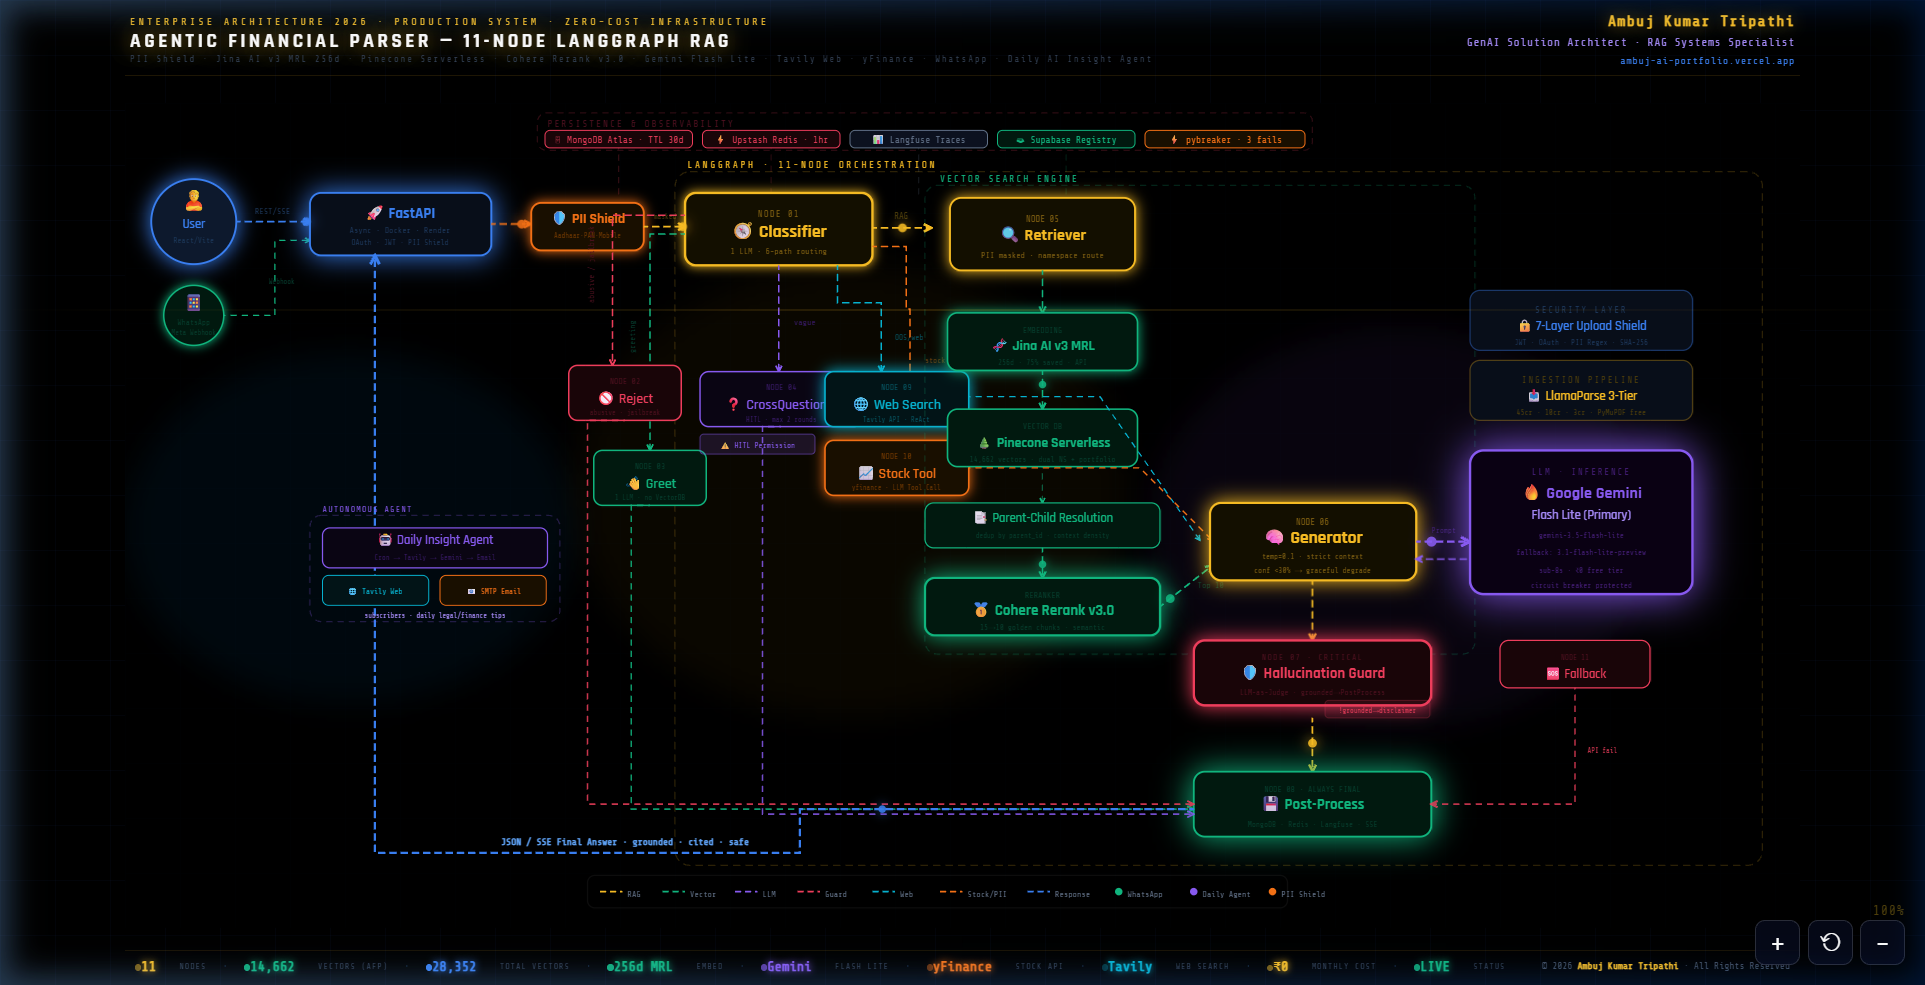
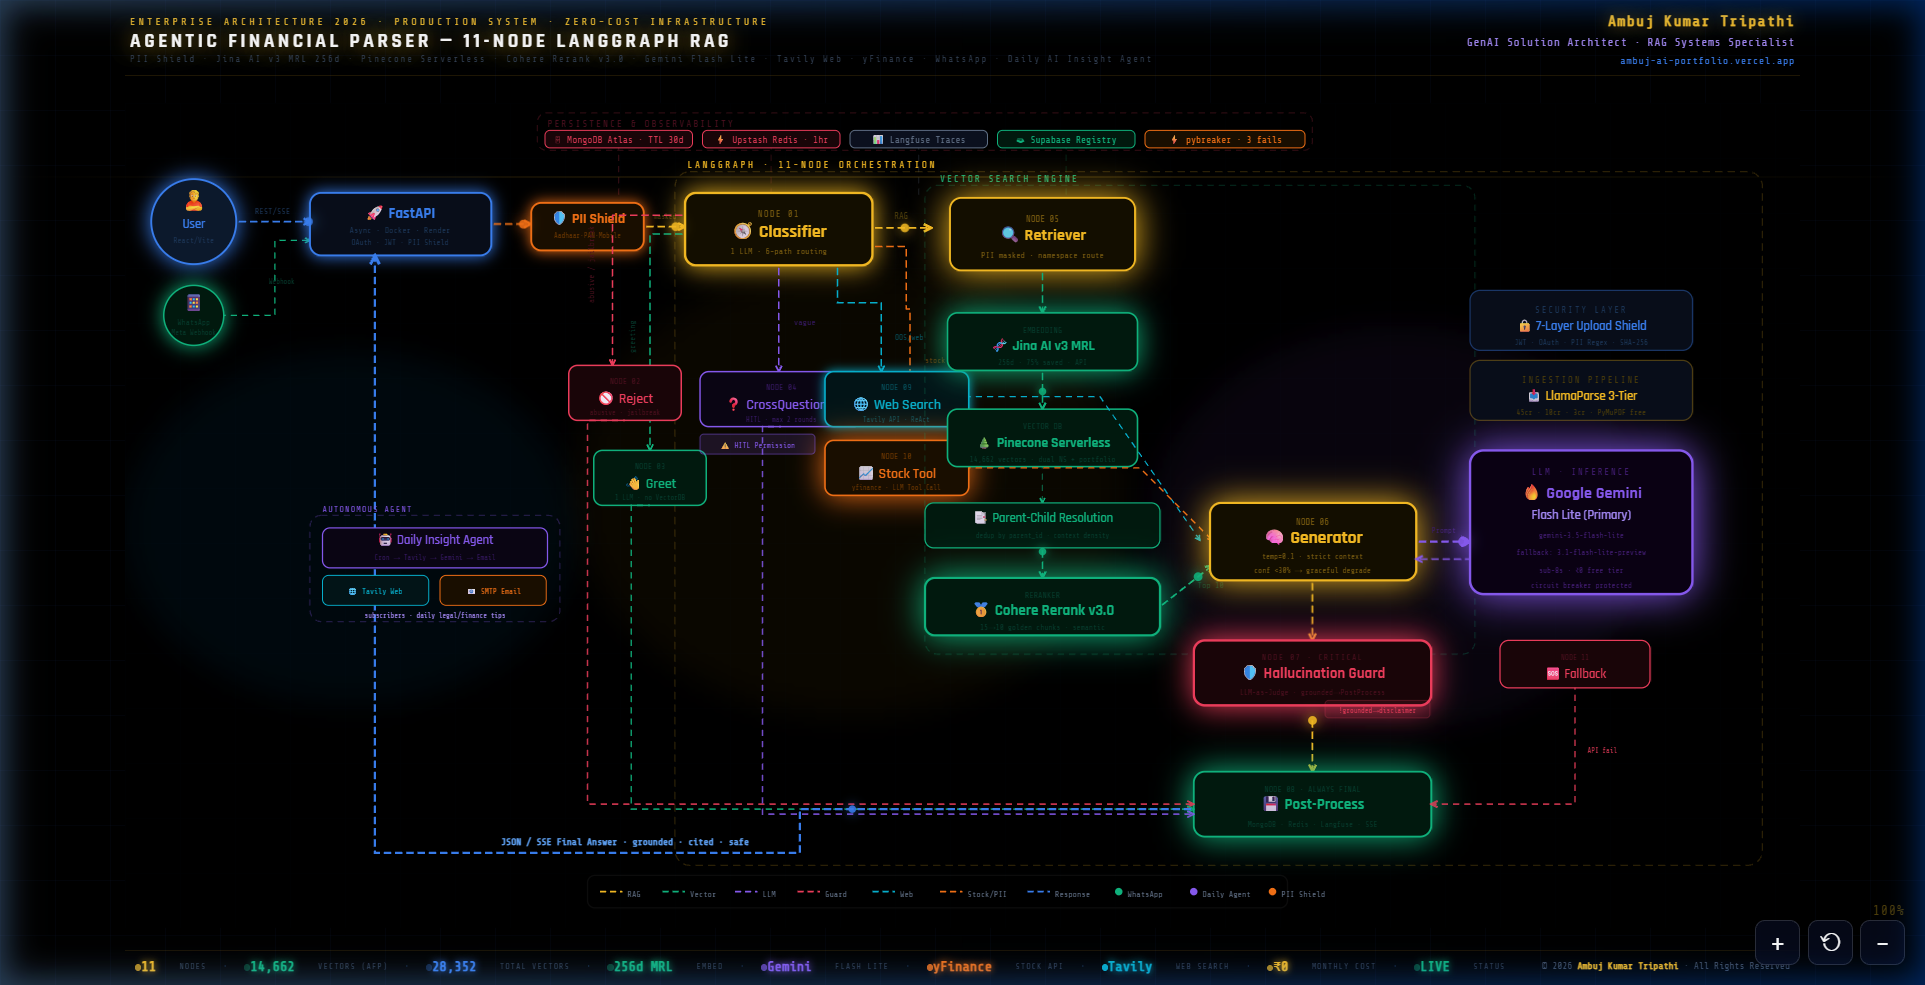
docs: update README to 11-node architecture — typing SVG, stars badges, new animated diagram
- Header: 10-Node → 11-Node, desc updated (WhatsApp Bot, Daily AI Newsletter)
- Added typing SVG typewriter effect (Fira Code, cycling features)
- Added GitHub Stars/Forks dynamic badges
- Node table: 10 → 11 rows (Web Search, Stock Tool as separate nodes)
- Generator: OpenRouter → Gemini 3.5 Flash Lite (actual codebase)
- Pinecone vectors: 3,854 → 14,662 (256d MRL)
- Architecture section: enhanced heading + flow caption
- Re-recorded animated diagram from architecture.html
- Updated static PNG for social sharing

diff --git a/README.md b/README.md
@@ -1,7 +1,11 @@
 <div align="center">
 
 <!-- Animated Header -->
-<img src="https://capsule-render.vercel.app/api?type=waving&color=gradient&customColorList=12,14,16,18,20&height=200&section=header&text=Agentic%20Financial%20Parser&fontSize=42&fontColor=ffffff&fontAlignY=35&desc=10-Node%20LangGraph%20StateGraph%20•%20Production-Grade%20Agentic%20RAG&descSize=16&descAlignY=55&animation=fadeIn" width="100%"/>
+<img src="https://capsule-render.vercel.app/api?type=waving&color=gradient&customColorList=12,14,16,18,20&height=200&section=header&text=Agentic%20Financial%20Parser&fontSize=42&fontColor=ffffff&fontAlignY=35&desc=11-Node%20LangGraph%20StateGraph%20•%20WhatsApp%20Bot%20•%20Daily%20AI%20Newsletter&descSize=16&descAlignY=55&animation=fadeIn" width="100%"/>
+
+<br/>
+
+<a href="https://git.io/typing-svg"><img src="https://readme-typing-svg.demolab.com?font=Fira+Code&weight=600&size=22&pause=1000&color=D4A574&background=00000000&center=true&vCenter=true&repeat=true&width=700&height=70&lines=11-Node+LangGraph+StateGraph+%7C+Agentic+RAG;WhatsApp+Bot+%7C+Gemini+Tool+Calling+%7C+HITL+Guards;Jina+MRL+%2B+Cohere+Rerank+%7C+%E2%82%B90%2Fmonth+Infra" alt="Typing SVG" /></a>
 
 <br/>
 
@@ -10,6 +14,9 @@
 [![Portfolio](https://img.shields.io/badge/👤_PORTFOLIO-Ambuj_Tripathi-34A853?style=for-the-badge)](https://ambuj-ai-portfolio.vercel.app/)
 
 <br/>
+
+[![GitHub Stars](https://img.shields.io/github/stars/Ambuj123-lab/agentic-rag-financial-parser?style=flat-square&logo=github&color=D4A574&logoColor=white)](https://github.com/Ambuj123-lab/agentic-rag-financial-parser/stargazers)
+[![GitHub Forks](https://img.shields.io/github/forks/Ambuj123-lab/agentic-rag-financial-parser?style=flat-square&logo=github&color=4A90D9&logoColor=white)](https://github.com/Ambuj123-lab/agentic-rag-financial-parser/network)
 
 [![Python](https://img.shields.io/badge/Python-3.11-3776AB?style=flat-square&logo=python&logoColor=white)](https://python.org)
 [![FastAPI](https://img.shields.io/badge/FastAPI-0.111+-009688?style=flat-square&logo=fastapi&logoColor=white)](https://fastapi.tiangolo.com)
@@ -24,7 +31,7 @@
 
 ## ⚡ What Is This?
 
-An **autonomous, 10-node Agentic RAG pipeline** that parses and queries complex Indian financial & legal documents — Union Budget, Finance Bill, Tax Laws, PF/Pension Schemes, RBI KYC, and Constitution of India — using a purpose-built state machine that **thinks before it answers**.
+An **autonomous, 11-node Agentic RAG pipeline** that parses and queries complex Indian financial & legal documents — Union Budget, Finance Bill, Tax Laws, PF/Pension Schemes, RBI KYC, and Constitution of India — using a purpose-built state machine that **thinks before it answers**.
 
 Unlike traditional RAG (retrieve → generate), this system employs an **agentic flow** where each query passes through specialized nodes that classify intent, cross-question vague queries, guard against hallucinations, and verify answer grounding — all orchestrated via **LangGraph StateGraph**.
 
@@ -41,29 +48,33 @@ Unlike traditional RAG (retrieve → generate), this system employs an **agentic
 
 ## 🏗 System Architecture
 
-<!-- Animated SVG Architecture Diagram -->
 <div align="center">
 <br/>
-<img src="assets/rag_architecture_animated.webp" width="100%" alt="Agentic Financial Parser Architecture"/>
+
+> **🔮 11-Node LangGraph StateGraph — Animated Architecture**
+
+<img src="assets/rag_architecture_animated.webp" width="100%" alt="Agentic Financial Parser — 11-Node Architecture"/>
 <br/>
+<sub>✨ Classifier → 6-Path Routing → Retrieval → Rerank → Generate → Hallucination Guard → Post-Process</sub>
 </div>
 
 ---
 
-## 🧠 The 10-Node Agentic RAG Pipeline
+## 🧠 The 11-Node Agentic RAG Pipeline
 
 | Node | Purpose | Key Detail |
 |------|---------|------------|
-| **1. Classifier** | Intent detection | Categorizes: `abusive` · `greeting` · `vague` · `rag_query` · `out_of_scope` |
-| **2. Reject** | Safety guard | Blocks abusive and anti-national queries with a strict blocklist guardrail |
+| **1. Classifier** | Intent detection + 6-path routing | Returns structured JSON: `intent` · `doc_type` · `confidence` · `search_intents` |
+| **2. Reject** | Safety guard | Blocks abusive + jailbreak queries with regex blocklist guardrail |
 | **3. Greet** | Efficiency bypass | Handles greetings **without** hitting vector DB (zero cost) |
 | **4. CrossQuestioner** | HITL clarification | Asks clarifying questions for vague queries (max 2 rounds) |
-| **5. Tool Calling** | API execution | Executes native LLM tools (RapidAPI Yahoo Finance) for live market data |
-| **6. Retriever** | Dual vector search | Searches **Core Brain** + **Temp User Uploads**. Falls back to Tavily Web Search for OOS queries. |
-| **7. Generator** | LLM synthesis | Dynamic OpenRouter fallback ensemble (Qwen/DeepSeek/Llama) with circuit breakers |
-| **8. HallucinationGuard** | Answer verification | Validates answer is **grounded** in retrieved context chunks |
-| **9. PostProcess** | Persistence | Saves to MongoDB chat history + Langfuse observability logging |
-| **10. Fallback** | Circuit breaker | pybreaker pattern: 3 API failures → graceful fallback message |
+| **5. Retriever** | Dual vector search | Jina MRL → Pinecone → Parent-Child Resolution → Cohere Rerank Top 10 |
+| **6. Web Search** | Out-of-scope fallback | Tavily API — only fires after HITL user permission |
+| **7. Stock Tool** | Native LLM tool calling | Gemini `functionDeclarations` + yfinance for live market data |
+| **8. Generator** | LLM synthesis | Gemini 3.5 Flash Lite (primary) with `pybreaker` circuit breakers |
+| **9. HallucinationGuard** | Answer verification | LLM-as-Judge — advisory mode (appends disclaimer, doesn't block) |
+| **10. PostProcess** | Persistence + streaming | MongoDB + Redis cache + Langfuse tracing + SSE stream |
+| **11. Fallback** | Circuit breaker recovery | pybreaker pattern: 3 API failures → graceful fallback message |
 
 ---
 
@@ -78,7 +89,7 @@ Unlike traditional RAG (retrieve → generate), this system employs an **agentic
 <tr>
 <td rowspan="5"><b>RAG Engine</b></td>
 <td>LangGraph StateGraph</td>
-<td>8-node autonomous state machine orchestration</td>
+<td>11-node autonomous state machine orchestration</td>
 </tr>
 <tr>
 <td>Jina v3 (MRL)</td>
@@ -117,7 +128,7 @@ Unlike traditional RAG (retrieve → generate), this system employs an **agentic
 <tr>
 <td rowspan="4"><b>Data Layer</b></td>
 <td>Pinecone Serverless</td>
-<td>3,854 vectors — core brain + ephemeral user uploads</td>
+<td>14,662 vectors — core brain + ephemeral user uploads</td>
 </tr>
 <tr>
 <td>Supabase (PostgreSQL)</td>
@@ -158,7 +169,7 @@ Unlike traditional RAG (retrieve → generate), this system employs an **agentic
 | Metric | Value |
 |--------|-------|
 | **Total Chunks** | 15,408 (Financial Parser Portfolio) |
-| **Live Vectors** | 13,453 high-dimensional vectors in Pinecone |
+| **Live Vectors** | 14,662 high-dimensional vectors in Pinecone (256d MRL) |
 | **Documents Indexed** | 20+ Indian Government Acts & Financial Frameworks |
 | **Parent Chunks** | Stored in Supabase for full-context retrieval |
 | **Cache Latency** | <100ms (Upstash Redis semantic cache) |
@@ -245,7 +256,7 @@ agentic-rag-financial-parser/
 │   │   ├── pinecone_client.py # Pinecone Serverless init
 │   │   └── supabase_client.py # Supabase PostgreSQL client
 │   └── rag/
-│       ├── graph.py          # ⭐ 8-Node LangGraph StateGraph
+│       ├── graph.py          # ⭐ 11-Node LangGraph StateGraph
 │       ├── routes.py         # Chat endpoints + SSE streaming
 │       ├── embedder.py       # Jina v3 MRL embeddings
 │       └── chunker.py        # Markdown + recursive splitting
